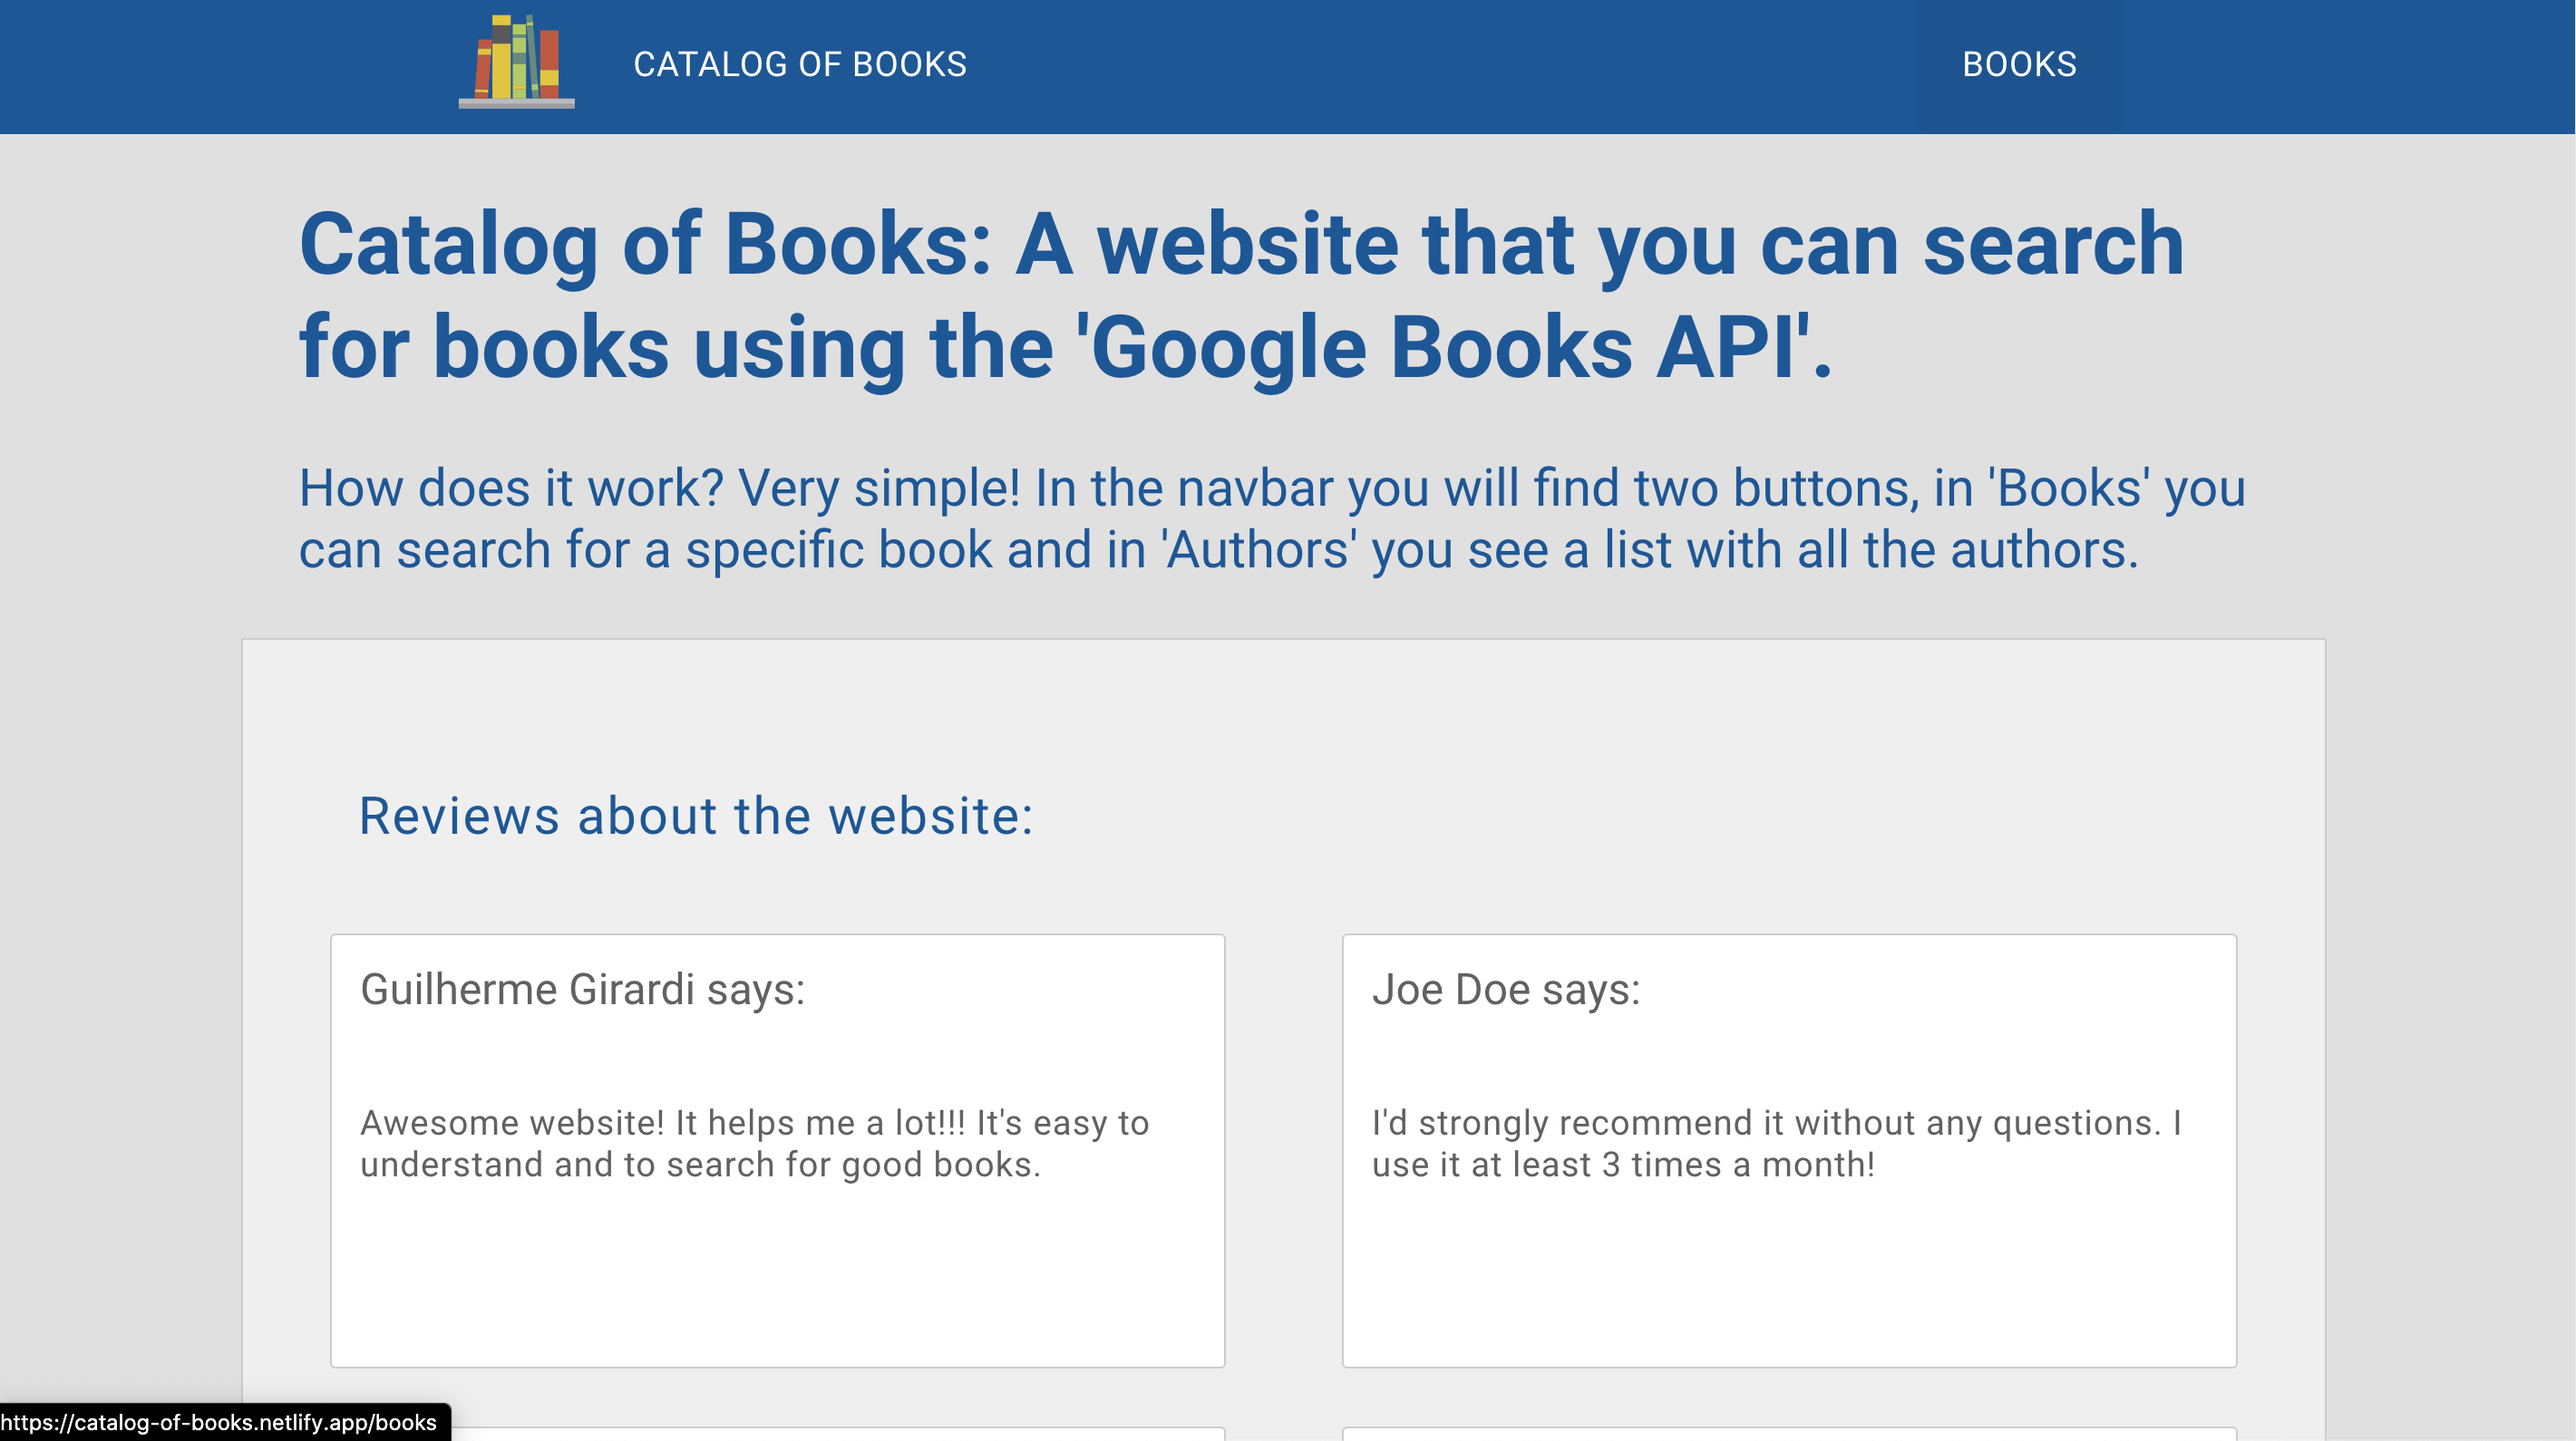
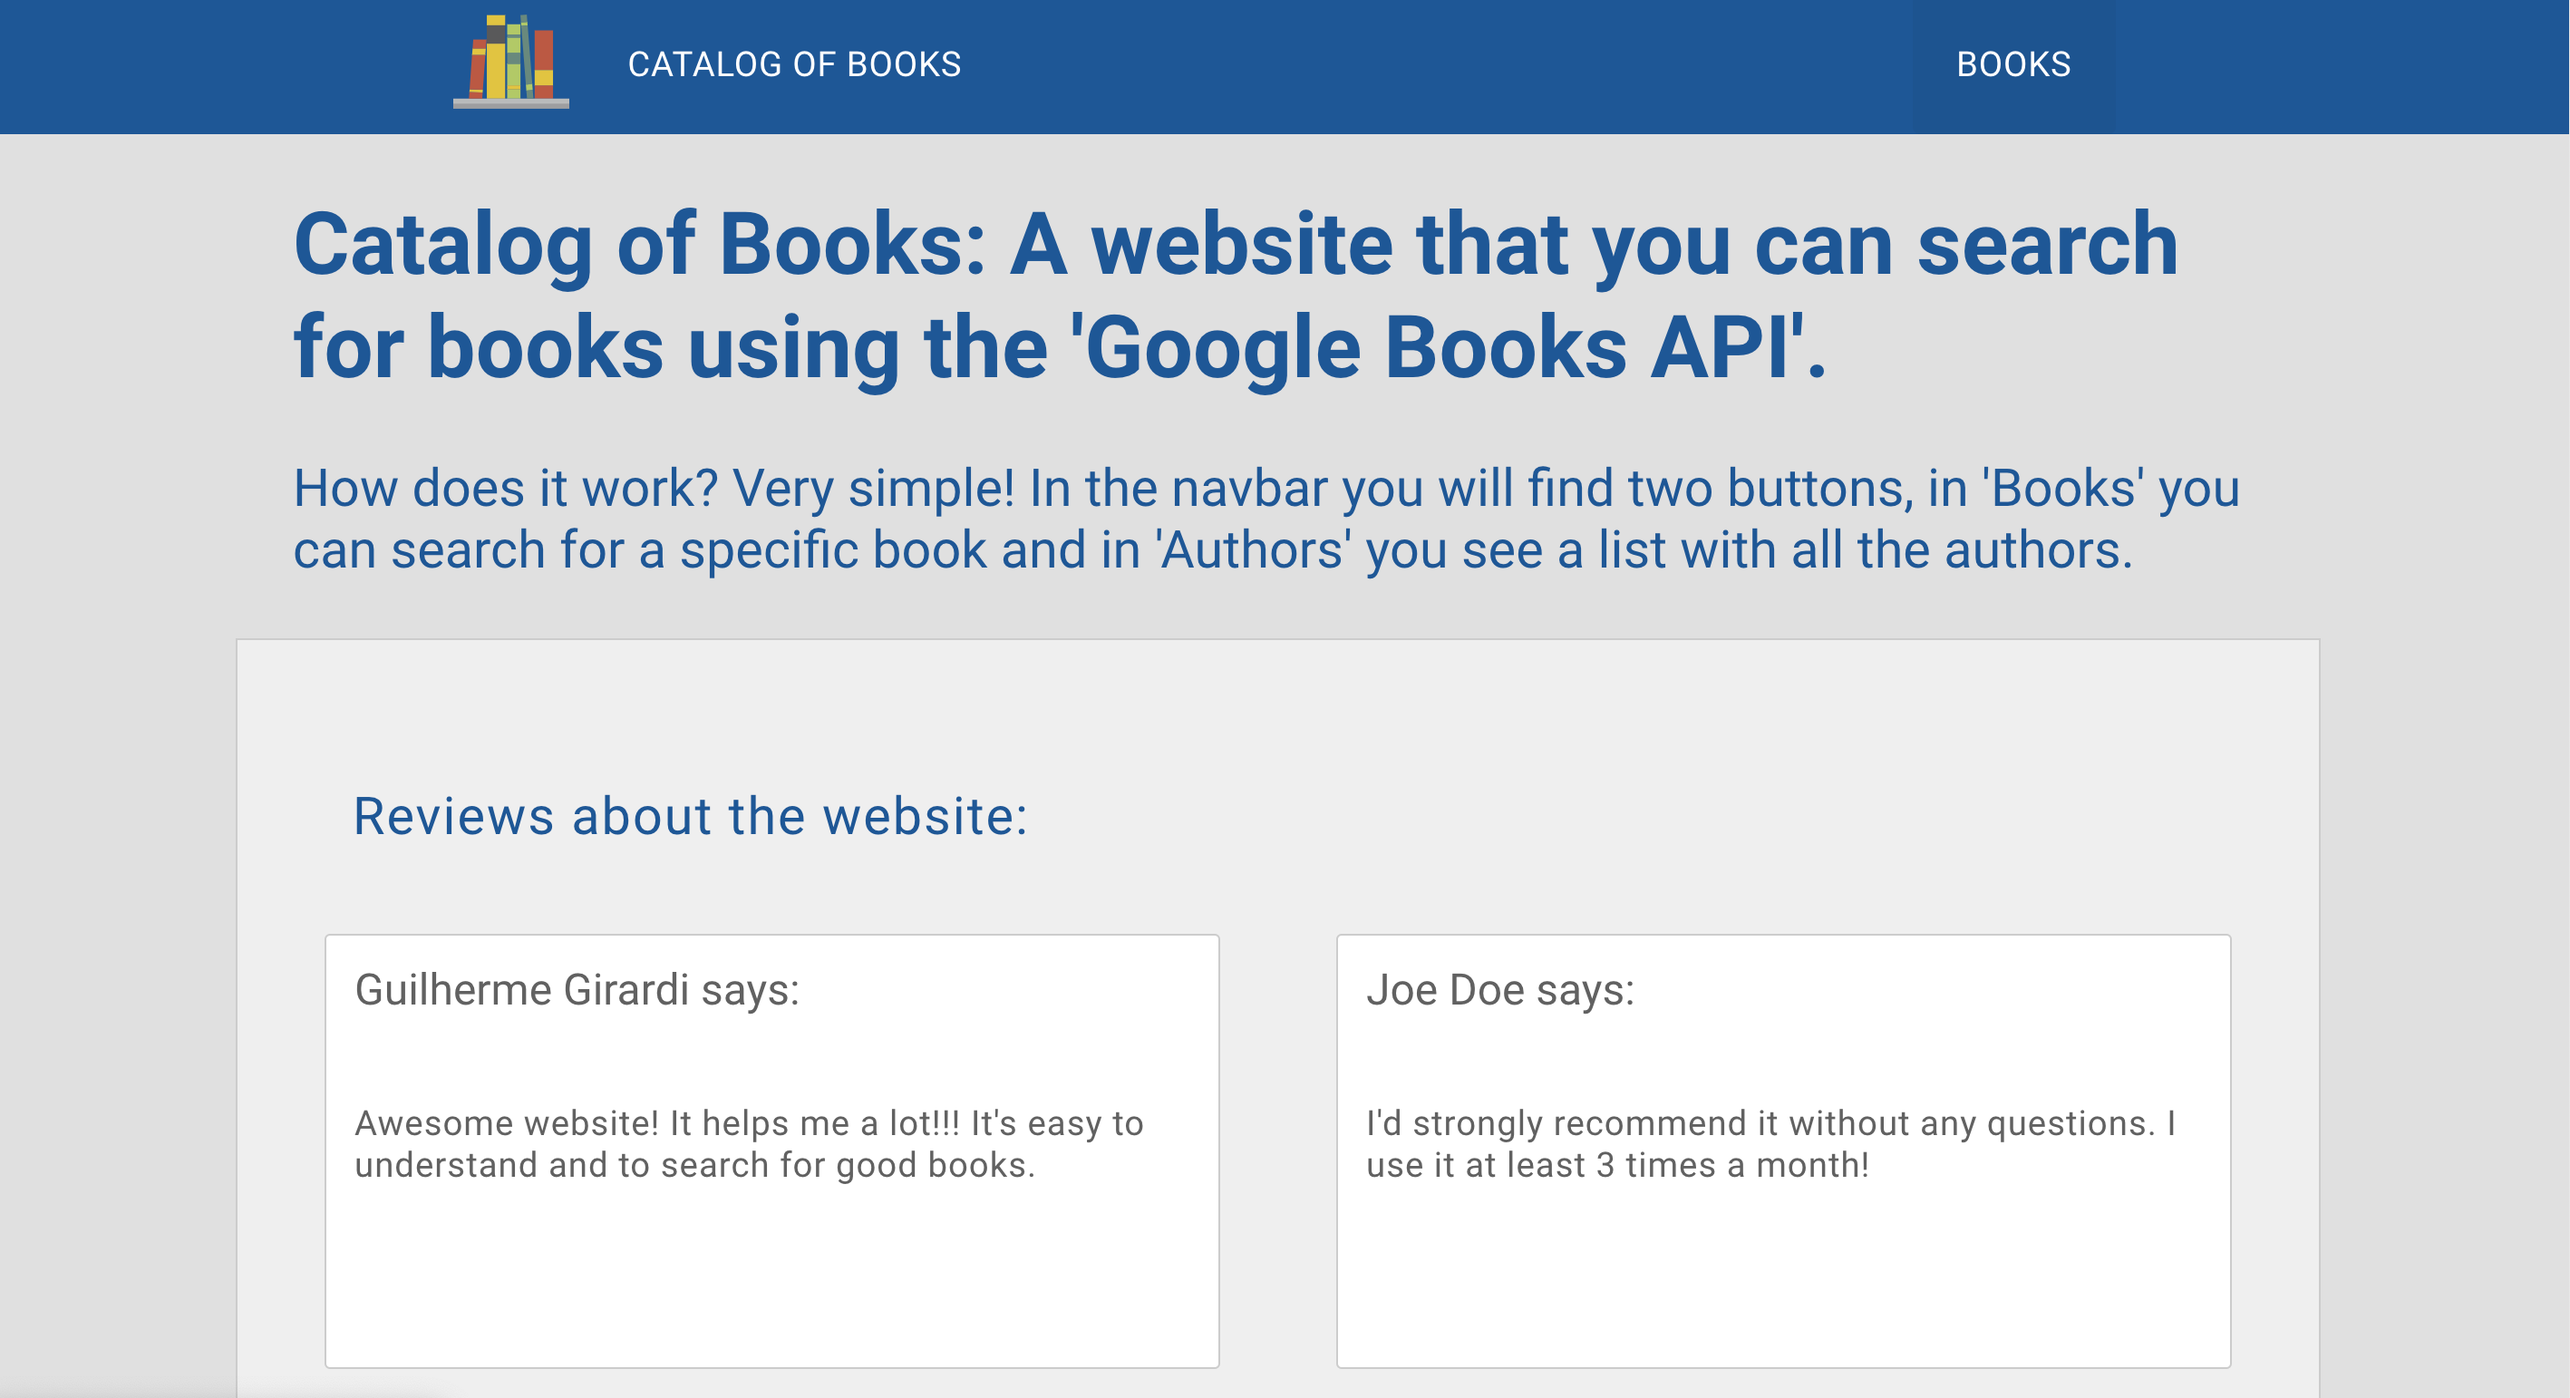
Create recommendations section, edit img

diff --git a/src/pages/Home/index.tsx b/src/pages/Home/index.tsx
@@ -3,6 +3,7 @@ import React from "react";
 import Nav from "../../components/Nav";
 import Header from "./sections/header";
 import Main from "./sections/main";
+import Recommendations from "./sections/recommendations";
 import Featured from "./sections/featured";
 import Info from "./sections/info";
 import Footer from "../../components/Footer";
@@ -13,6 +14,7 @@ export default function Home() {
          <Nav />
          <Header />
          <Main />
+         <Recommendations />
          <Featured />
          <Info />
          <Footer />

diff --git a/src/scss/pages/Home/_main.scss b/src/scss/pages/Home/_main.scss
@@ -19,7 +19,7 @@
       margin-bottom: 2.2rem;
 
       .main__anchor {
-         color: #0f2049;
+         color: #34cb79;
          text-decoration: none;
       }
    }

diff --git a/src/pages/Home/sections/recommendations.tsx b/src/pages/Home/sections/recommendations.tsx
@@ -1,0 +1,5 @@
+import React from "react";
+
+export default function Recommendations() {
+   return <h1>Recommendations</h1>;
+}
